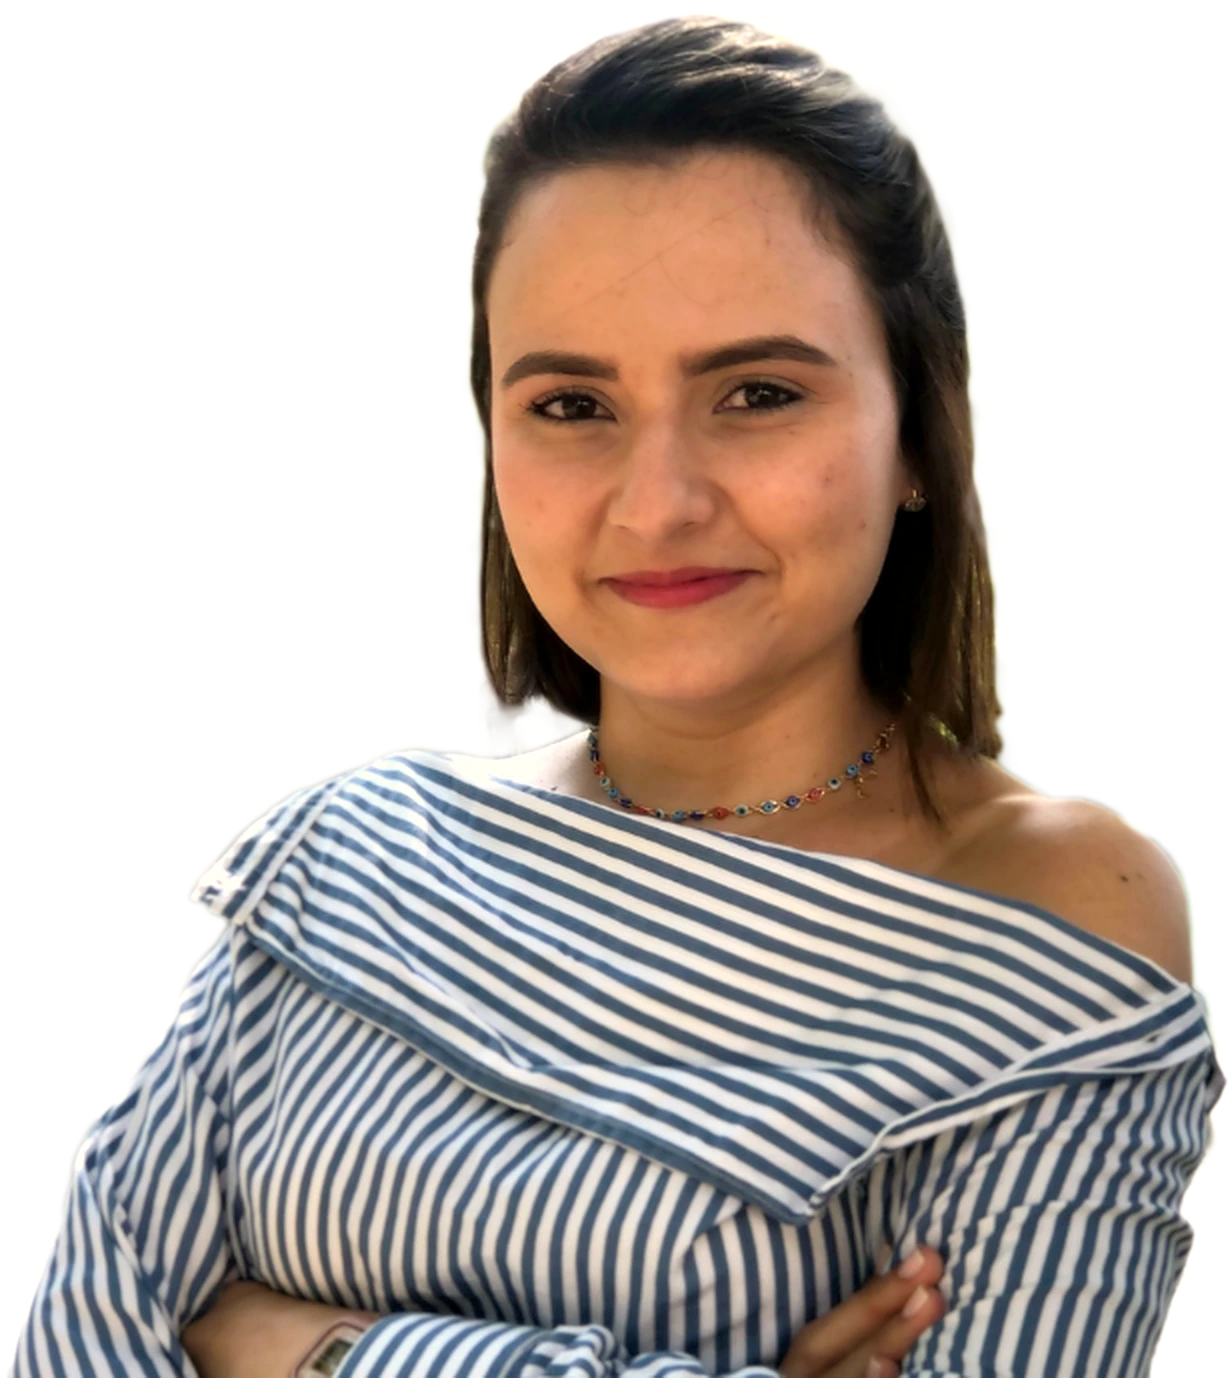
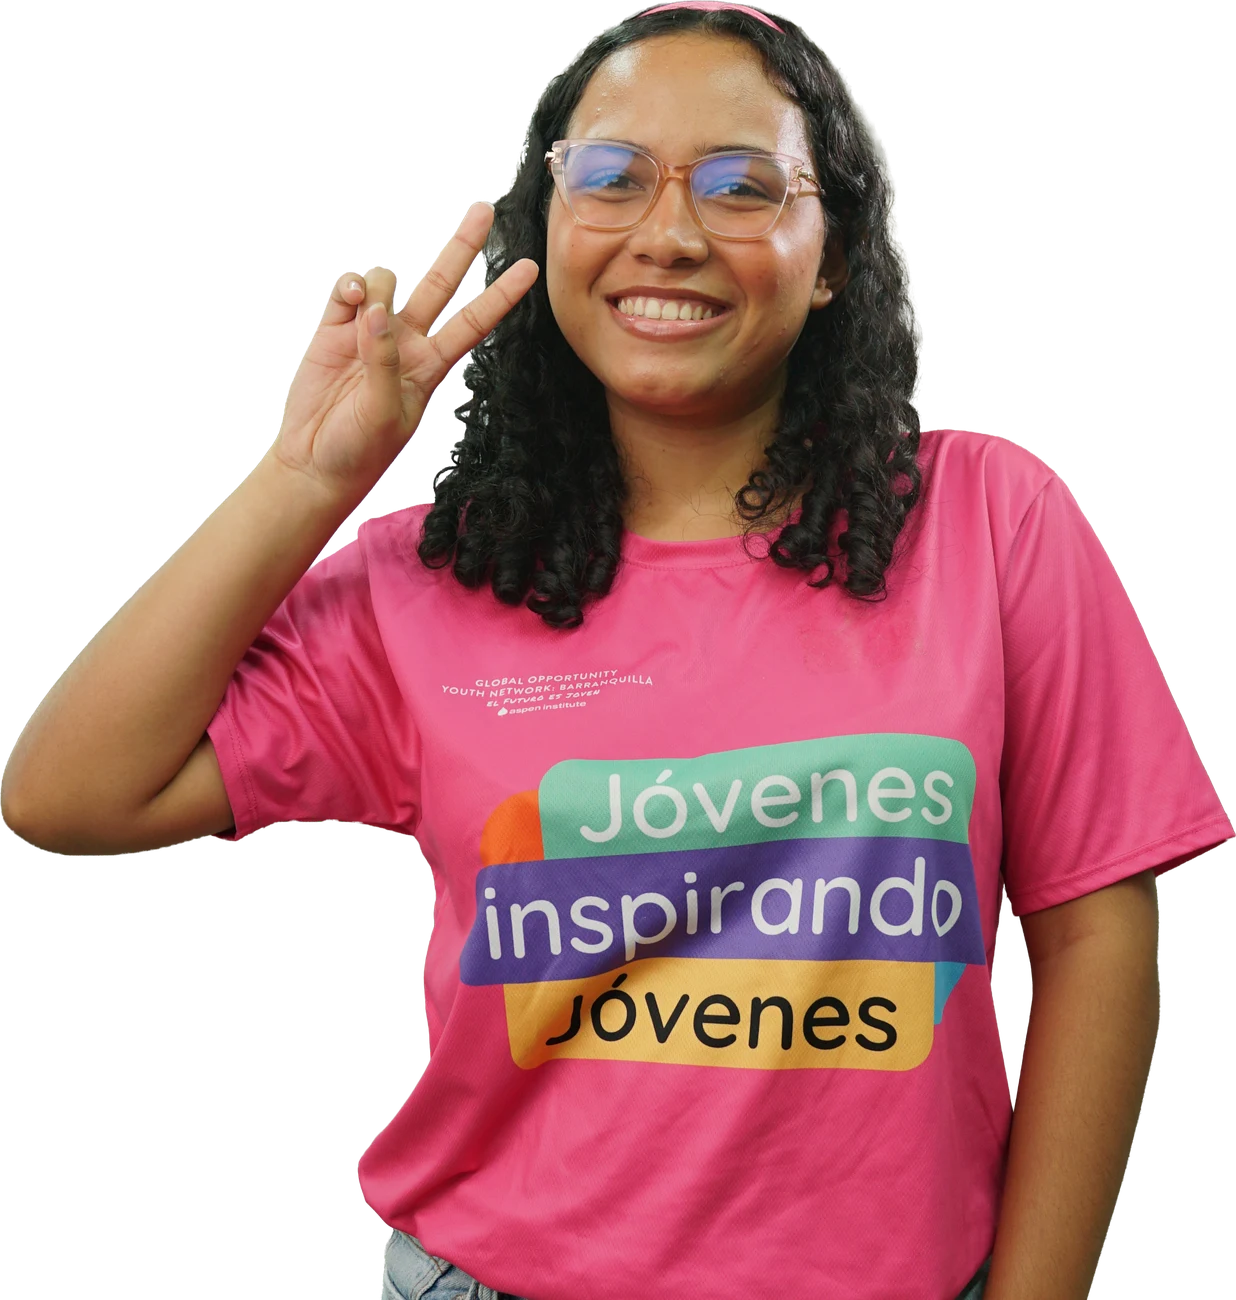
Inicio: foto de 'Nuestro propósito' con joven del Colaborativo (DSC02794) y arco amarillo

diff --git a/frontend/src/app/(publico)/page.tsx b/frontend/src/app/(publico)/page.tsx
@@ -113,12 +113,12 @@ export default function HomePage() {
           </Reveal>
           <div className="relative mx-auto -mt-20 h-[400px] w-full max-w-md sm:-mt-36 sm:h-[540px]">
             {/* Arco de la marca detrás de la persona, apoyado en el borde de la banda: le da profundidad. */}
-            <div aria-hidden className="absolute bottom-0 left-1/2 h-[72%] w-[84%] -translate-x-1/2 rounded-t-full bg-linear-to-b from-goyn-magenta to-[#c400b8]" />
+            <div aria-hidden className="absolute bottom-0 left-1/2 h-[72%] w-[84%] -translate-x-1/2 rounded-t-full bg-linear-to-b from-goyn-amarillo to-[#ffa41f]" />
             <FloatingShape name="aro_rayado" size={130} className="top-[22%] -right-2 z-0 opacity-80" float={10} parallax={0} />
             <FloatingShape name="asterisco" size={48} white className="top-[34%] left-0 z-20" spin={360} duration={14} parallax={0} />
             <Image
               src="/images/fotos/proposito-silueta.webp"
-              alt="Integrante del Colaborativo GOYN Barranquilla"
+              alt="Joven del Colaborativo GOYN Barranquilla con la camiseta Jóvenes inspirando jóvenes"
               fill
               sizes="(min-width: 768px) 32vw, 85vw"
               className="z-10 object-contain object-bottom drop-shadow-[0_18px_30px_rgba(6,10,40,0.35)]"
